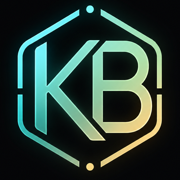
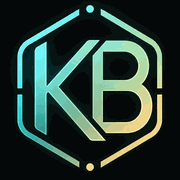
Fix portfolio SEO audit issues

diff --git a/index.html b/index.html
@@ -7,6 +7,24 @@ layout: null
 <meta charset="utf-8">
 <meta name="viewport" content="width=device-width,initial-scale=1">
 <title data-i18n-title="meta.title.home">Kagan Bağdemir — Data & Logistics</title>
+<meta name="description" content="Portfolio of Kagan Bağdemir — Mechanical Engineering (ITPL), data analytics, logistics IT, FEM, and CAD for manufacturing and operations roles.">
+<meta name="author" content="Kagan Bağdemir">
+<link rel="canonical" href="https://kaganbagdemir.de/">
+<meta property="og:type" content="website">
+<meta property="og:locale" content="de_DE">
+<meta property="og:url" content="https://kaganbagdemir.de/">
+<meta property="og:site_name" content="Kagan Bağdemir Portfolio">
+<meta property="og:title" content="Kagan Bağdemir — Data · Logistics · Engineering">
+<meta property="og:description" content="Portfolio of Kagan Bağdemir — Mechanical Engineering (ITPL), data analytics, logistics IT, FEM, and CAD for manufacturing and operations roles.">
+<meta property="og:image" content="https://kaganbagdemir.de/og-image.jpg">
+<meta property="og:image:width" content="1200">
+<meta property="og:image:height" content="630">
+<meta property="og:image:alt" content="Kagan Bağdemir portfolio preview with KB logo and Data, Logistics, Engineering title.">
+<meta name="twitter:card" content="summary_large_image">
+<meta name="twitter:title" content="Kagan Bağdemir — Data · Logistics · Engineering">
+<meta name="twitter:description" content="Mechanical Engineering (ITPL), data analytics, logistics IT, FEM, and CAD portfolio for manufacturing and operations roles.">
+<meta name="twitter:image" content="https://kaganbagdemir.de/og-image.jpg">
+<meta name="twitter:image:alt" content="Kagan Bağdemir portfolio preview with KB logo and Data, Logistics, Engineering title.">
 <link rel="icon" type="image/png" href="/assets/favicon.png?v=1">
 <link rel="apple-touch-icon" href="/assets/apple-touch-icon.png?v=1">
 <script>
@@ -25,27 +43,48 @@ layout: null
   "@context": "https://schema.org",
   "@type": "Person",
   "name": "Kagan Bağdemir",
+  "alternateName": "Kagan Bagdemir",
   "givenName": "Kagan",
   "familyName": "Bağdemir",
-  "jobTitle": "Mechanical Engineering (ITPL) · Data Analytics & Logistics IT",
+  "jobTitle": "Data & Logistics Engineer",
   "description": "Portfolio of Kagan Bağdemir focused on Mechanical Engineering (ITPL), data analytics, logistics IT, FEM, and CAD.",
   "email": "mailto:[email redacted]",
-  "url": "https://kaganbagdemir.de",
+  "url": "https://kaganbagdemir.de/",
+  "image": "https://kaganbagdemir.de/og-image.jpg",
   "address": { "@type": "PostalAddress", "addressLocality": "Dortmund", "addressCountry": "DE" },
+  "alumniOf": {
+    "@type": "CollegeOrUniversity",
+    "name": "TU Dortmund University"
+  },
+  "hasCredential": {
+    "@type": "EducationalOccupationalCredential",
+    "credentialCategory": "Degree",
+    "name": "Mechanical Engineering (ITPL), TU Dortmund"
+  },
+  "knowsAbout": [
+    "Mechanical Engineering (ITPL)",
+    "Data Analytics",
+    "Logistics IT",
+    "Warehouse KPI dashboards",
+    "Finite Element Method",
+    "CAD",
+    "Manufacturing operations"
+  ],
   "sameAs": [
     "https://github.com/kahnri",
     "https://www.linkedin.com/in/kagan-b-7b2b28206/",
     "mailto:[email redacted]"
-  ]
+  ],
+  "mainEntityOfPage": "https://kaganbagdemir.de/"
 }
 </script>
-<meta name="description" content="Portfolio of Kagan Bağdemir — Mechanical Engineering (ITPL), data analytics, logistics IT, FEM, and CAD for manufacturing and operations roles.">
 <link rel="stylesheet" href="/assets/utilities.css?v=1">
-<link rel="stylesheet" href="assets/theme.css?v=13">
+<link rel="stylesheet" href="assets/theme.css?v=14">
 <meta name="color-scheme" content="light dark">
 <script defer data-domain="kaganbagdemir.de" src="https://plausible.io/js/script.js"></script>
 </head>
 <body class="home-page">
+  <a class="skip-link" href="#main-content">Skip to main content</a>
   <div class="scroll-progress-rail" aria-hidden="true"><span></span></div>
   <div class="ambient-scroll-field" aria-hidden="true">
     <span style="--x:12%; --y:18%; --d:0.22; --s:1"></span>
@@ -54,11 +93,14 @@ layout: null
     <span style="--x:78%; --y:76%; --d:0.34; --s:0.9"></span>
     <span style="--x:48%; --y:38%; --d:0.14; --s:0.48"></span>
   </div>
-  <main class="relative isolate max-w-5xl mx-auto px-4 py-6 sm:px-6 sm:py-10">
+  <main id="main-content" class="relative isolate max-w-5xl mx-auto px-4 py-6 sm:px-6 sm:py-10">
     <header class="flex flex-wrap items-start justify-between gap-3 sm:items-center" data-animate style="--stagger:0">
       <h1 class="site-brand-heading">
         <a href="/" class="site-brand" aria-label="Kagan Bagdemir ana sayfa">
-          <img class="site-brand-mark" src="/assets/logo-mark.png?v=1" width="50" height="50" alt="">
+          <picture class="site-brand-picture">
+            <source srcset="/assets/logo-mark.webp?v=1" type="image/webp">
+            <img class="site-brand-mark" src="/assets/logo-mark.png?v=2" width="50" height="50" alt="" decoding="async">
+          </picture>
           <span class="site-brand-copy">
             <span class="site-brand-name">KAGAN BAGDEMIR</span>
             <span class="site-brand-line"
@@ -153,6 +195,11 @@ layout: null
              data-lang-text-nl="With a Mechanical Engineering (ITPL) background around TU Dortmund, I translate warehouse data, KPI dashboards, FEM, and CAD into clear systems for real processes."
              data-lang-text-ja="With a Mechanical Engineering (ITPL) background around TU Dortmund, I translate warehouse data, KPI dashboards, FEM, and CAD into clear systems for real processes.">TU Dortmund çevresinde Mechanical Engineering (ITPL) geçmişimle warehouse data, KPI dashboard, FEM ve CAD tarafında gerçek problemleri sade sistemlere çeviriyorum.</p>
 
+          <div class="author-context mt-4 rounded-2xl border theme-card-soft p-3 text-sm theme-text-soft">
+            <p><strong>Kagan Bağdemir</strong> | Mechanical Engineering (ITPL), TU Dortmund | Data Analytics &amp; Logistics IT specialist</p>
+            <p class="mt-1">Last updated: <time datetime="2026-06-07">7 June 2026</time></p>
+          </div>
+
           <div class="flex flex-wrap gap-2 mt-4 text-sm theme-text-soft">
             <span class="px-3 py-1 rounded-full border theme-chip">Python / NumPy</span>
             <span class="px-3 py-1 rounded-full border theme-chip">Data Analytics</span>
@@ -238,6 +285,106 @@ layout: null
              data-lang-text-ja="An engineering profile that thinks in dashboards, FEM, and production reality at once.">Dashboard, FEM ve üretim bilgisini tek ekranda düsünen bir mühendis profili.</p>
         </aside>
       </div>
+    </section>
+
+    <section id="profile-summary" class="mt-6 rounded-2xl border theme-card p-5 sm:p-6" data-animate style="--stagger:1.75">
+      <p class="text-xs uppercase tracking-widest theme-text-muted"
+         data-lang-text
+         data-lang-text-tr="Profil derinligi"
+         data-lang-text-de="Profil mit Substanz"
+         data-lang-text-en="Profile depth"
+         data-lang-text-nl="Profile depth"
+         data-lang-text-ja="Profile depth">Profil derinligi</p>
+      <h2 class="mt-2 text-2xl font-semibold safe-wrap"
+          data-lang-text
+          data-lang-text-tr="Kagan Bağdemir hangi problemler üzerinde çalışıyor?"
+          data-lang-text-de="An welchen Problemen arbeitet Kagan Bağdemir?"
+          data-lang-text-en="What problems does Kagan Bağdemir work on?"
+          data-lang-text-nl="What problems does Kagan Bağdemir work on?"
+          data-lang-text-ja="What problems does Kagan Bağdemir work on?">Kagan Bağdemir hangi problemler üzerinde çalışıyor?</h2>
+      <p class="mt-3 theme-text-soft safe-wrap"
+         data-lang-text
+         data-lang-text-tr="Mechanical Engineering (ITPL) temelim, üretim ve lojistikteki fiziksel süreçleri veriyle birlikte okumamı sağlıyor. Bir depoda siparişin ne kadar sürede aktığını, bir üretim hattında hangi KPI'ın gerçekten karar aldırdığını veya teknik bir parçanın CAD/FEM tarafında nasıl düşünülmesi gerektiğini aynı çerçevede ele alıyorum. Bu portfolyo, sadece güzel görünen ekranlar değil; problem tanımı, ölçüm mantığı, mühendislik sezgisi ve uygulanabilir çıktı üretme biçimimi göstermek için tasarlandı."
+         data-lang-text-de="Mein Maschinenbau-ITPL-Hintergrund hilft mir, physische Produktions- und Logistikprozesse zusammen mit Daten zu lesen. Ich betrachte, wie lange ein Auftrag im Lager wirklich fließt, welche KPI in einer Produktionsumgebung eine Entscheidung auslöst und wie ein technisches Bauteil auf CAD/FEM-Ebene gedacht werden sollte. Dieses Portfolio zeigt deshalb nicht nur Oberflächen, sondern meine Art, Probleme zu definieren, Messlogik aufzubauen, Engineering-Kontext zu behalten und nutzbare Ergebnisse zu liefern."
+         data-lang-text-en="My Mechanical Engineering (ITPL) background helps me read physical production and logistics processes together with data. I look at how long an order really flows through a warehouse, which KPI actually supports a decision in a manufacturing environment, and how a technical component should be considered from a CAD/FEM perspective. This portfolio is built to show more than screens: it shows how I define problems, structure measurement logic, keep engineering context, and deliver usable outputs."
+         data-lang-text-nl="My Mechanical Engineering (ITPL) background helps me read physical production and logistics processes together with data. I look at how long an order really flows through a warehouse, which KPI actually supports a decision in a manufacturing environment, and how a technical component should be considered from a CAD/FEM perspective. This portfolio is built to show more than screens: it shows how I define problems, structure measurement logic, keep engineering context, and deliver usable outputs."
+         data-lang-text-ja="My Mechanical Engineering (ITPL) background helps me read physical production and logistics processes together with data. I look at how long an order really flows through a warehouse, which KPI actually supports a decision in a manufacturing environment, and how a technical component should be considered from a CAD/FEM perspective. This portfolio is built to show more than screens: it shows how I define problems, structure measurement logic, keep engineering context, and deliver usable outputs.">Mechanical Engineering (ITPL) temelim, üretim ve lojistikteki fiziksel süreçleri veriyle birlikte okumamı sağlıyor. Bir depoda siparişin ne kadar sürede aktığını, bir üretim hattında hangi KPI'ın gerçekten karar aldırdığını veya teknik bir parçanın CAD/FEM tarafında nasıl düşünülmesi gerektiğini aynı çerçevede ele alıyorum. Bu portfolyo, sadece güzel görünen ekranlar değil; problem tanımı, ölçüm mantığı, mühendislik sezgisi ve uygulanabilir çıktı üretme biçimimi göstermek için tasarlandı.</p>
+
+      <div class="grid gap-4 mt-4 md:grid-cols-3">
+        <article class="rounded-2xl border theme-card-soft p-4">
+          <h3 class="text-lg font-semibold safe-wrap"
+              data-lang-text
+              data-lang-text-tr="Hangi teknik araçları kullanıyorum?"
+              data-lang-text-de="Welche technischen Werkzeuge nutze ich?"
+              data-lang-text-en="Which technical tools do I use?"
+              data-lang-text-nl="Which technical tools do I use?"
+              data-lang-text-ja="Which technical tools do I use?">Hangi teknik araçları kullanıyorum?</h3>
+          <p class="mt-2 theme-text-muted safe-wrap"
+             data-lang-text
+             data-lang-text-tr="Veri tarafında Python, NumPy, pandas ve görselleştirme mantığını; mühendislik tarafında CAD, teknik çizim, tolerans düşüncesi ve temel FEM yaklaşımını birleştiriyorum. KPI çalışmalarında lead time, picking accuracy, on-time delivery, cycle time ve OEE gibi metrikleri sadece raporlamak yerine kök neden, darboğaz ve aksiyon sorularına bağlamayı hedefliyorum."
+             data-lang-text-de="Auf der Datenseite kombiniere ich Python, NumPy, pandas und Visualisierungslogik; auf der Engineering-Seite CAD, technische Zeichnung, Toleranzdenken und grundlegende FEM-Methodik. Bei KPI-Arbeit verbinde ich Kennzahlen wie Lead Time, Picking Accuracy, On-time Delivery, Cycle Time und OEE nicht nur mit Reporting, sondern mit Fragen nach Ursache, Engpass und nächster Aktion."
+             data-lang-text-en="On the data side I combine Python, NumPy, pandas, and visualization logic; on the engineering side I use CAD, technical drawing, tolerance thinking, and basic FEM methodology. In KPI work, I connect lead time, picking accuracy, on-time delivery, cycle time, and OEE with root cause, bottleneck, and next-action questions instead of treating them as reporting-only numbers."
+             data-lang-text-nl="On the data side I combine Python, NumPy, pandas, and visualization logic; on the engineering side I use CAD, technical drawing, tolerance thinking, and basic FEM methodology. In KPI work, I connect lead time, picking accuracy, on-time delivery, cycle time, and OEE with root cause, bottleneck, and next-action questions instead of treating them as reporting-only numbers."
+             data-lang-text-ja="On the data side I combine Python, NumPy, pandas, and visualization logic; on the engineering side I use CAD, technical drawing, tolerance thinking, and basic FEM methodology. In KPI work, I connect lead time, picking accuracy, on-time delivery, cycle time, and OEE with root cause, bottleneck, and next-action questions instead of treating them as reporting-only numbers.">Veri tarafında Python, NumPy, pandas ve görselleştirme mantığını; mühendislik tarafında CAD, teknik çizim, tolerans düşüncesi ve temel FEM yaklaşımını birleştiriyorum. KPI çalışmalarında lead time, picking accuracy, on-time delivery, cycle time ve OEE gibi metrikleri sadece raporlamak yerine kök neden, darboğaz ve aksiyon sorularına bağlamayı hedefliyorum.</p>
+        </article>
+
+        <article class="rounded-2xl border theme-card-soft p-4">
+          <h3 class="text-lg font-semibold safe-wrap"
+              data-lang-text
+              data-lang-text-tr="Hangi projeler bu profili gösteriyor?"
+              data-lang-text-de="Welche Projekte zeigen dieses Profil?"
+              data-lang-text-en="Which projects show this profile?"
+              data-lang-text-nl="Which projects show this profile?"
+              data-lang-text-ja="Which projects show this profile?">Hangi projeler bu profili gösteriyor?</h3>
+          <p class="mt-2 theme-text-muted safe-wrap"
+             data-lang-text
+             data-lang-text-tr="Warehouse KPI Dashboard projesi operasyon metriklerini anlaşılır bir kontrol paneline dönüştürüyor. FEM Mini-Solver, rijitlik matrisi, sınır şartı ve yer değiştirme gibi kavramları küçük ama okunur bir hesaplama demosuna indiriyor. CAD / Teknik Çizim bölümü üretilebilirlik, ölçülendirme ve norm bilincini öne çıkarıyor. Lisans tezim ise araç filtre imalatında kullanılan malzeme parametrelerinin filtrasyona etkisini üç dilde erişilebilir hale getiriyor."
+             data-lang-text-de="Das Warehouse KPI Dashboard übersetzt operative Metriken in ein verständliches Kontrollpanel. Der FEM Mini-Solver reduziert Begriffe wie Steifigkeitsmatrix, Randbedingung und Verschiebung auf eine kleine, lesbare Berechnungsdemo. Der CAD-/Technische-Zeichnung-Bereich betont Herstellbarkeit, Bemaßung und Normbewusstsein. Meine Bachelorarbeit macht den Einfluss von Materialparametern in der Fahrzeugfilterfertigung auf die Filtration in drei Sprachen zugänglich."
+             data-lang-text-en="The Warehouse KPI Dashboard translates operational metrics into a readable control panel. The FEM Mini-Solver turns concepts such as stiffness matrix, boundary conditions, and displacement into a small but understandable computation demo. The CAD / Technical Drawing area highlights manufacturability, dimensioning, and standards awareness. My bachelor thesis makes the effect of material parameters in vehicle filter manufacturing on filtration available in three languages."
+             data-lang-text-nl="The Warehouse KPI Dashboard translates operational metrics into a readable control panel. The FEM Mini-Solver turns concepts such as stiffness matrix, boundary conditions, and displacement into a small but understandable computation demo. The CAD / Technical Drawing area highlights manufacturability, dimensioning, and standards awareness. My bachelor thesis makes the effect of material parameters in vehicle filter manufacturing on filtration available in three languages."
+             data-lang-text-ja="The Warehouse KPI Dashboard translates operational metrics into a readable control panel. The FEM Mini-Solver turns concepts such as stiffness matrix, boundary conditions, and displacement into a small but understandable computation demo. The CAD / Technical Drawing area highlights manufacturability, dimensioning, and standards awareness. My bachelor thesis makes the effect of material parameters in vehicle filter manufacturing on filtration available in three languages.">Warehouse KPI Dashboard projesi operasyon metriklerini anlaşılır bir kontrol paneline dönüştürüyor. FEM Mini-Solver, rijitlik matrisi, sınır şartı ve yer değiştirme gibi kavramları küçük ama okunur bir hesaplama demosuna indiriyor. CAD / Teknik Çizim bölümü üretilebilirlik, ölçülendirme ve norm bilincini öne çıkarıyor. Lisans tezim ise araç filtre imalatında kullanılan malzeme parametrelerinin filtrasyona etkisini üç dilde erişilebilir hale getiriyor.</p>
+        </article>
+
+        <article class="rounded-2xl border theme-card-soft p-4">
+          <h3 class="text-lg font-semibold safe-wrap"
+              data-lang-text
+              data-lang-text-tr="Hangi rolleri hedefliyorum?"
+              data-lang-text-de="Welche Rollen suche ich?"
+              data-lang-text-en="Which roles am I targeting?"
+              data-lang-text-nl="Which roles am I targeting?"
+              data-lang-text-ja="Which roles am I targeting?">Hangi rolleri hedefliyorum?</h3>
+          <p class="mt-2 theme-text-muted safe-wrap"
+             data-lang-text
+             data-lang-text-tr="Üretim operasyonları, lojistik optimizasyonu, warehouse analytics, junior data analytics ve manufacturing engineering kesişimindeki rollere odaklanıyorum. Özellikle gerçek süreç verisini temizleyip doğru metriklere bağlayan, ekiplerin daha hızlı karar almasına yardım eden ve teknik bağlamı kaybetmeyen işlerde değer üretebileceğime inanıyorum."
+             data-lang-text-de="Ich fokussiere Rollen an der Schnittstelle von Produktionsprozessen, Logistikoptimierung, Warehouse Analytics, Junior Data Analytics und Manufacturing Engineering. Besonders stark sehe ich meinen Beitrag dort, wo reale Prozessdaten bereinigt, mit sinnvollen Metriken verbunden und in schnellere Entscheidungen übersetzt werden, ohne den technischen Kontext zu verlieren."
+             data-lang-text-en="I am targeting roles at the intersection of manufacturing operations, logistics optimization, warehouse analytics, junior data analytics, and manufacturing engineering. I can contribute most where real process data needs to be cleaned, connected to useful metrics, and translated into faster decisions without losing the technical context."
+             data-lang-text-nl="I am targeting roles at the intersection of manufacturing operations, logistics optimization, warehouse analytics, junior data analytics, and manufacturing engineering. I can contribute most where real process data needs to be cleaned, connected to useful metrics, and translated into faster decisions without losing the technical context."
+             data-lang-text-ja="I am targeting roles at the intersection of manufacturing operations, logistics optimization, warehouse analytics, junior data analytics, and manufacturing engineering. I can contribute most where real process data needs to be cleaned, connected to useful metrics, and translated into faster decisions without losing the technical context.">Üretim operasyonları, lojistik optimizasyonu, warehouse analytics, junior data analytics ve manufacturing engineering kesişimindeki rollere odaklanıyorum. Özellikle gerçek süreç verisini temizleyip doğru metriklere bağlayan, ekiplerin daha hızlı karar almasına yardım eden ve teknik bağlamı kaybetmeyen işlerde değer üretebileceğime inanıyorum.</p>
+        </article>
+      </div>
+
+      <p class="mt-4 theme-text-muted safe-wrap">
+        <span data-lang-text
+              data-lang-text-tr="Daha derin düşünce notları için"
+              data-lang-text-de="Für tiefere Notizen:"
+              data-lang-text-en="For deeper notes:"
+              data-lang-text-nl="For deeper notes:"
+              data-lang-text-ja="For deeper notes:">Daha derin düşünce notları için</span>
+        <a class="footer-side-link" href="/blog/">Blog</a>
+        <span data-lang-text
+              data-lang-text-tr="; somut demo ve proje ayrıntıları için"
+              data-lang-text-de="; konkrete Demos und Projektkontext:"
+              data-lang-text-en="; for concrete demos and project context:"
+              data-lang-text-nl="; for concrete demos and project context:"
+              data-lang-text-ja="; for concrete demos and project context:">; somut demo ve proje ayrıntıları için</span>
+        <a class="footer-side-link" href="#selected-work"
+           data-lang-text
+           data-lang-text-tr="Secili Isler"
+           data-lang-text-de="Ausgewählte Arbeiten"
+           data-lang-text-en="Selected Work"
+           data-lang-text-nl="Selected Work"
+           data-lang-text-ja="Selected Work">Secili Isler</a>.
+      </p>
     </section>
 
     <section class="mt-6" data-animate style="--stagger:1.9">

diff --git a/assets/theme.css b/assets/theme.css
@@ -68,6 +68,27 @@ body {
   letter-spacing: 0;
 }
 
+.skip-link {
+  position: fixed;
+  top: 1rem;
+  left: 1rem;
+  z-index: 100;
+  transform: translateY(-160%);
+  border: 1px solid var(--border-strong);
+  border-radius: 999px;
+  background: var(--surface-rail);
+  color: var(--text-strong);
+  padding: 0.65rem 1rem;
+  box-shadow: 0 16px 38px var(--shadow-soft);
+  transition: transform 0.18s ease;
+}
+
+.skip-link:focus {
+  transform: translateY(0);
+  outline: 3px solid var(--focus-ring);
+  outline-offset: 3px;
+}
+
 body > main > header {
   position: sticky;
   top: 0.65rem;
@@ -110,6 +131,11 @@ body > main > header::after {
   min-width: 0;
   color: var(--text-strong);
   text-decoration: none;
+}
+
+.site-brand-picture {
+  display: inline-flex;
+  flex: 0 0 auto;
 }
 
 .site-brand-mark {
@@ -343,6 +369,15 @@ main h3 {
   backdrop-filter: blur(12px);
   -webkit-backdrop-filter: blur(12px);
   box-shadow: 0 18px 44px var(--shadow-soft), inset 0 1px 0 rgba(255, 255, 255, 0.07);
+}
+
+.theme-card-soft {
+  background:
+    linear-gradient(135deg, rgba(116, 244, 241, 0.09), transparent 38%),
+    linear-gradient(180deg, rgba(255, 255, 255, 0.04), transparent 80%),
+    var(--surface-muted);
+  border-color: var(--border);
+  box-shadow: inset 0 1px 0 rgba(255, 255, 255, 0.06);
 }
 
 .theme-card::before {

diff --git a/blog/index.html b/blog/index.html
@@ -21,7 +21,7 @@ layout: null
   })();
   </script>
   <link rel="stylesheet" href="/assets/utilities.css?v=1">
-  <link rel="stylesheet" href="/assets/theme.css?v=13">
+  <link rel="stylesheet" href="/assets/theme.css?v=14">
   <meta name="color-scheme" content="light dark">
   <!-- Plausible -->
   <script defer data-domain="kaganbagdemir.de" src="https://plausible.io/js/script.js"></script>
@@ -30,7 +30,10 @@ layout: null
   <main class="max-w-3xl mx-auto px-4 py-6 sm:px-6 sm:py-10">
     <header class="flex flex-wrap items-start justify-between gap-3 sm:items-center" data-animate style="--stagger:0">
       <a href="/" class="site-brand site-brand-link" aria-label="Kagan Bagdemir ana sayfa">
-        <img class="site-brand-mark" src="/assets/logo-mark.png?v=1" width="50" height="50" alt="">
+        <picture class="site-brand-picture">
+          <source srcset="/assets/logo-mark.webp?v=1" type="image/webp">
+          <img class="site-brand-mark" src="/assets/logo-mark.png?v=2" width="50" height="50" alt="" decoding="async">
+        </picture>
         <span class="site-brand-copy">
           <span class="site-brand-name">KAGAN BAGDEMIR</span>
           <span class="site-brand-line"

diff --git a/_layouts/post.html b/_layouts/post.html
@@ -18,7 +18,7 @@
   })();
   </script>
   <link rel="stylesheet" href="/assets/utilities.css?v=1">
-  <link rel="stylesheet" href="/assets/theme.css?v=13">
+  <link rel="stylesheet" href="/assets/theme.css?v=14">
   <meta name="color-scheme" content="light dark">
   <!-- Plausible -->
   <script defer data-domain="kaganbagdemir.de" src="https://plausible.io/js/script.js"></script>

diff --git a/admin/index.html b/admin/index.html
@@ -171,7 +171,7 @@ html.admin-lock body{visibility:hidden;}
 })();
 </script>
 <link rel="stylesheet" href="/assets/utilities.css?v=1">
-<link rel="stylesheet" href="assets/theme.css?v=13">
+<link rel="stylesheet" href="assets/theme.css?v=14">
 <meta name="color-scheme" content="light dark">
 </head>
 <body>

diff --git a/dev/cad-technical-drawing/index.html b/dev/cad-technical-drawing/index.html
@@ -19,7 +19,7 @@
   </script>
   <meta name="description" content="CAD and technical drawing portfolio notes by Kagan Bagdemir focused on automotive parts, dimensions, tolerances, and manufacturing readability.">
   <link rel="stylesheet" href="/assets/utilities.css?v=1">
-  <link rel="stylesheet" href="/assets/theme.css?v=13">
+  <link rel="stylesheet" href="/assets/theme.css?v=14">
   <meta name="color-scheme" content="light dark">
   <script defer data-domain="kaganbagdemir.de" src="https://plausible.io/js/script.js"></script>
 </head>

diff --git a/dev/fem-mini-solver/index.html b/dev/fem-mini-solver/index.html
@@ -19,7 +19,7 @@
   </script>
   <meta name="description" content="Interactive 2D truss FEM mini-solver by Kagan Bagdemir with stiffness assembly, displacement, reaction, and stress outputs.">
   <link rel="stylesheet" href="/assets/utilities.css?v=1">
-  <link rel="stylesheet" href="/assets/theme.css?v=13">
+  <link rel="stylesheet" href="/assets/theme.css?v=14">
   <link rel="stylesheet" href="/assets/projects/fem-mini-solver/fem.css?v=1">
   <meta name="color-scheme" content="light dark">
   <script defer data-domain="kaganbagdemir.de" src="https://plausible.io/js/script.js"></script>

diff --git a/dev/index.html b/dev/index.html
@@ -19,7 +19,7 @@
   </script>
   <meta name="description" content="Selected engineering, data analytics, FEM, and CAD work by Kagan Bagdemir.">
   <link rel="stylesheet" href="/assets/utilities.css?v=1">
-  <link rel="stylesheet" href="/assets/theme.css?v=13">
+  <link rel="stylesheet" href="/assets/theme.css?v=14">
   <meta name="color-scheme" content="light dark">
   <script defer data-domain="kaganbagdemir.de" src="https://plausible.io/js/script.js"></script>
 </head>

diff --git a/dev/warehouse-kpi-dashboard/index.html b/dev/warehouse-kpi-dashboard/index.html
@@ -18,7 +18,7 @@
   })();
   </script>
   <link rel="stylesheet" href="/assets/utilities.css?v=1">
-  <link rel="stylesheet" href="/assets/theme.css?v=13">
+  <link rel="stylesheet" href="/assets/theme.css?v=14">
   <link rel="stylesheet" href="/assets/projects/warehouse-kpi/dashboard.css?v=1">
   <meta name="color-scheme" content="light dark">
   <script defer data-domain="kaganbagdemir.de" src="https://plausible.io/js/script.js"></script>

diff --git a/kahnri/cark/index.html b/kahnri/cark/index.html
@@ -21,7 +21,7 @@ layout: null
   })();
   </script>
   <link rel="stylesheet" href="/assets/utilities.css?v=1">
-  <link rel="stylesheet" href="/assets/theme.css?v=13">
+  <link rel="stylesheet" href="/assets/theme.css?v=14">
   <meta name="color-scheme" content="light dark">
   <style>
     body { font-family: "Avenir Next", "Trebuchet MS", "Segoe UI", sans-serif; }

diff --git a/kahnri/index.html b/kahnri/index.html
@@ -21,7 +21,7 @@ layout: null
   })();
   </script>
   <link rel="stylesheet" href="/assets/utilities.css?v=1">
-  <link rel="stylesheet" href="/assets/theme.css?v=13">
+  <link rel="stylesheet" href="/assets/theme.css?v=14">
   <meta name="color-scheme" content="light dark">
   <style>
     body { font-family: "Avenir Next", "Trebuchet MS", "Segoe UI", sans-serif; }

diff --git a/kronolojik-basarimlar/index.html b/kronolojik-basarimlar/index.html
@@ -19,7 +19,7 @@
   </script>
   <meta name="description" content="Kagan Bagdemir'in egitim, is deneyimi, projeler ve teknik gelisim kronolojisi.">
   <link rel="stylesheet" href="/assets/utilities.css?v=1">
-  <link rel="stylesheet" href="/assets/theme.css?v=13">
+  <link rel="stylesheet" href="/assets/theme.css?v=14">
   <meta name="color-scheme" content="light dark">
   <script defer data-domain="kaganbagdemir.de" src="https://plausible.io/js/script.js"></script>
 </head>